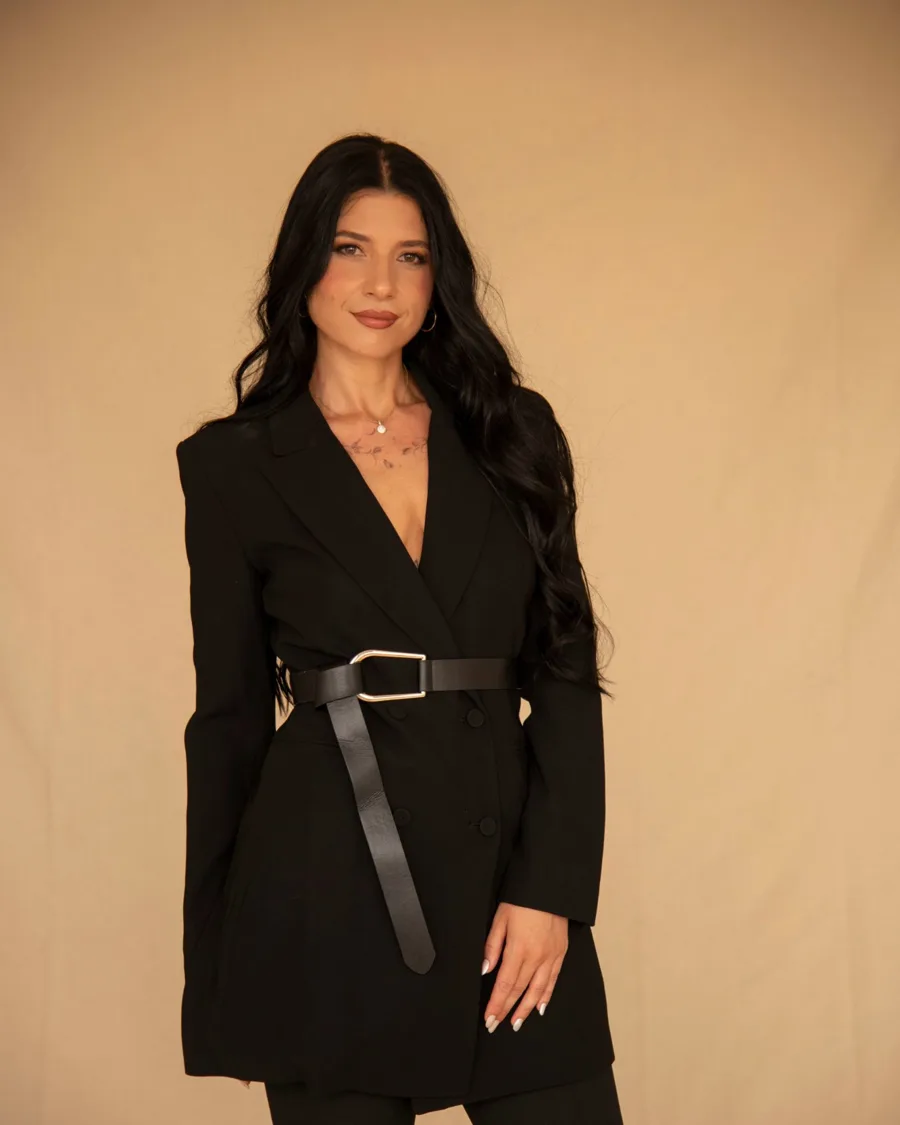
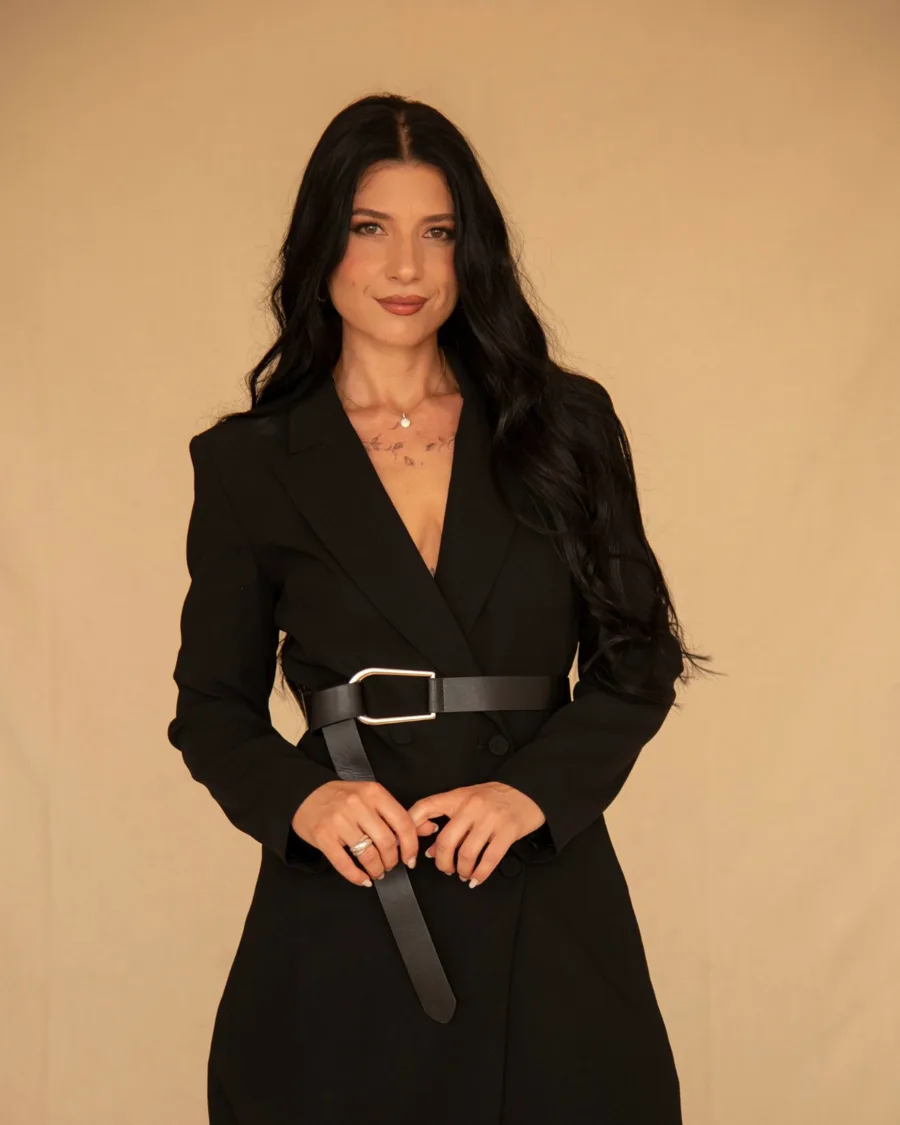
UPDATE founder images

diff --git a/src/sections/Hero.tsx b/src/sections/Hero.tsx
@@ -1,5 +1,5 @@
 import { motion, useReducedMotion, useScroll, useTransform, type Transition } from 'motion/react'
-import { useEffect, useRef, useState, type ReactNode } from 'react'
+import { useCallback, useEffect, useRef, useState, type ReactNode } from 'react'
 import { Destacado } from '@/components/marca/Destacado'
 import { Button } from '@/components/ui/Button'
 import { Container } from '@/components/ui/Container'
@@ -32,17 +32,33 @@ export function Hero() {
   const [enMarcha, setEnMarcha] = useState(false)
   const [listoParaVer, setListoParaVer] = useState(false)
 
+  // Pone la película en marcha y solo entonces la descubre. Si el navegador no deja reproducir sola (en el
+  // celular, con el modo de bajo consumo, no deja), se queda la foto: antes se descubría igual y se veía
+  // el primer cuadro congelado
+  const arrancar = useCallback(async () => {
+    const cinta = video.current
+    if (!cinta) return
+    // El silencio es lo que permite que arranque sola; se repite aquí porque alguna versión de Safari no
+    // toma el atributo que pone React
+    cinta.muted = true
+    try {
+      await cinta.play()
+      setEnMarcha(true)
+    } catch {
+      // Sin película: la foto se queda, que es el mismo cuadro en el que la película termina
+    }
+  }, [])
+
   // Primero entra la foto con el telón de la intro y se queda quieta un momento; recién entonces arranca la
   // película, que se funde encima. Como termina en la misma composición que la foto, al acabar se queda fija
-  // y el relevo no se nota
+  // y el relevo no se nota.
+  // El aviso de «listo» no llega en todos lados: el celular recorta la precarga y muchas veces no avisa
+  // nunca, así que si no llega se intenta igual un poco más tarde
   useEffect(() => {
-    if (!conVideo || !lista || !listoParaVer) return
-    const t = setTimeout(() => {
-      video.current?.play().catch(() => {})
-      setEnMarcha(true)
-    }, 1600)
+    if (!conVideo || !lista) return
+    const t = setTimeout(arrancar, listoParaVer ? 1600 : 3500)
     return () => clearTimeout(t)
-  }, [conVideo, lista, listoParaVer])
+  }, [conVideo, lista, listoParaVer, arrancar])
 
   // Al terminar, la película vuelve a empezar, pero nunca de golpe: arranca en un macro de la tela y termina
   // en la composición de la foto, así que un loop directo sería un corte seco. En su lugar se funde de vuelta
@@ -51,11 +67,10 @@ export function Hero() {
   const volverAEmpezar = () => {
     setEnMarcha(false)
     reloj.current = setTimeout(() => {
-      const pelicula = video.current
-      if (!pelicula) return
-      pelicula.currentTime = 0
-      pelicula.play().catch(() => {})
-      setEnMarcha(true)
+      const cinta = video.current
+      if (!cinta) return
+      cinta.currentTime = 0
+      void arrancar()
     }, 3200)
   }
 
@@ -107,7 +122,7 @@ export function Hero() {
                 muted
                 playsInline
                 preload="auto"
-                onCanPlayThrough={() => setListoParaVer(true)}
+                onLoadedData={() => setListoParaVer(true)}
                 onEnded={volverAEmpezar}
                 className={cn('absolute inset-0 size-full object-cover', portada.encuadre)}
                 initial={{ opacity: 0 }}
